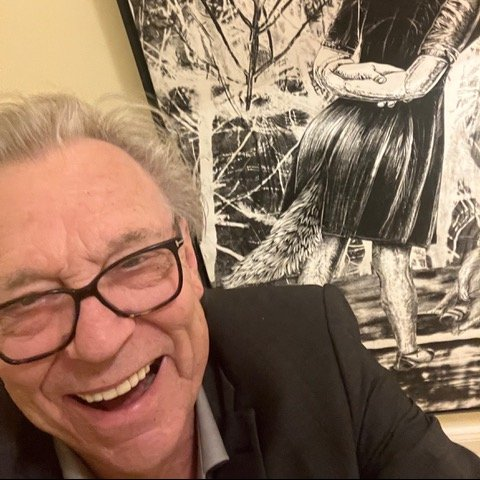
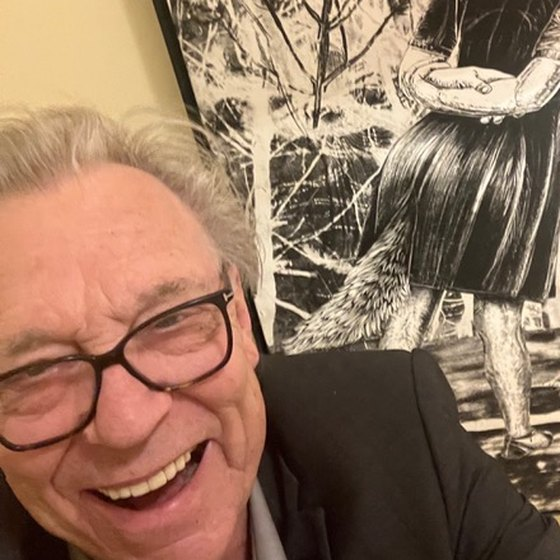
Add files via upload

diff --git a/style.css b/style.css
@@ -27,8 +27,8 @@ section{padding:3rem 0}
 .prog h3{color:var(--teal-d);display:flex;justify-content:space-between;border-bottom:2px solid var(--teal);padding-bottom:.3rem;margin-top:2.5rem}
 .slot{display:grid;grid-template-columns:9rem 1fr;gap:.2rem 1.5rem;margin:1rem 0}
 .slot b{color:var(--teal-d)}.slot p{margin:.2rem 0}
-.speakers{display:grid;grid-template-columns:repeat(auto-fill,minmax(180px,1fr));gap:1.5rem;list-style:none;padding:0}
-.speakers img,.speakers .ph{width:100%;aspect-ratio:1;object-fit:cover;border-radius:50% 50% 12px 12px;background:var(--yellow);display:grid;place-items:center;font:700 2.2rem var(--serif);color:var(--teal-d)}
+.speakers{display:grid;grid-template-columns:repeat(auto-fill,minmax(150px,1fr));gap:2rem 1.5rem;list-style:none;padding:0;text-align:center}
+.speakers img,.speakers .ph{width:min(100%,210px);aspect-ratio:1;object-fit:cover;border-radius:50%;background:var(--yellow);display:grid;place-items:center;margin:0 auto;font:700 2.2rem var(--serif);color:var(--teal-d);outline:4px solid var(--yellow);outline-offset:5px}
 .speakers strong{display:block;margin-top:.6rem;font-family:var(--serif)}.speakers span{font-size:.95rem}
 .videos{display:grid;grid-template-columns:repeat(auto-fit,minmax(300px,1fr));gap:1.5rem}
 .videos iframe{width:100%;aspect-ratio:16/9;border:0;border-radius:12px}
@@ -54,8 +54,8 @@ footer{background:var(--ink);color:#fff;padding:2rem 0;font-size:.95rem}footer a
 .hero .co{font-weight:600;margin:0 0 1rem}
 .partners{padding:2.5rem 0;background:#fff;border-top:2px solid var(--mist)}
 .partners .wrap{display:flex;align-items:center;justify-content:center;gap:2.5rem 3rem;flex-wrap:wrap}
-.partners img{height:92px;width:auto}
-.partners .lions-logo{height:84px}
+.partners img{height:124px;width:auto}
+.partners .lions-logo{height:108px}
 .partners p{margin:0;max-width:22ch;font-weight:600;line-height:1.4}
 .faq h2{margin-top:2.5rem;font-size:1.6rem;color:var(--teal-d)}
 .faq h2:first-child{margin-top:0}
@@ -63,4 +63,11 @@ footer{background:var(--ink);color:#fff;padding:2rem 0;font-size:.95rem}footer a
 .faq th,.faq td{text-align:left;padding:.35rem 1.5rem .35rem 0;border-bottom:1px solid #cfe3e5;vertical-align:top}
 .share{background:var(--mist)}
 @media(max-width:700px){.hero .face{display:none}.hero .txt{max-width:100%}.hero .lions{width:54px;top:-2rem}.partners .wrap{flex-direction:column;text-align:center}.partners p{max-width:none}}
-.partners .coop{display:flex;flex-direction:column;align-items:flex-start;gap:.35rem}.partners .coop span{font-size:.85rem;line-height:1.2}.partners img.fonds{height:80px;width:auto}@media(max-width:700px){.partners .coop{align-items:center}}
+.partners .coop{display:flex;flex-direction:column;align-items:flex-start;gap:.35rem}.partners .coop span{font-size:.85rem;line-height:1.2}.partners img.fonds{height:46px;width:auto}@media(max-width:700px){.partners .coop{align-items:center}}
+footer h2{font-size:1.1rem;color:var(--yellow);margin:0 0 .7rem}
+.foot{display:grid;grid-template-columns:1.2fr 1fr;gap:2rem 3rem}
+.foot ul{list-style:none;margin:0;padding:0}
+.foot li{padding-left:1.3rem;position:relative;margin:0 0 .6rem;text-wrap:balance}
+.foot li::before{content:"";position:absolute;left:0;top:.55em;width:.65rem;height:.65rem;border-radius:50%;background:var(--yellow)}
+.foot p{margin:0 0 .9rem}
+@media(max-width:700px){.foot{grid-template-columns:1fr}}

diff --git a/site.js b/site.js
@@ -2,7 +2,7 @@ const PAGES=[["index.html","Programma"],["sponsoren.html","Sponsoren"],["faq.htm
 const cur=location.pathname.split("/").pop()||"index.html";
 const esc=s=>String(s).replace(/[&<>"]/g,c=>({"&":"&amp;","<":"&lt;",">":"&gt;",'"':"&quot;"}[c]));
 document.querySelector("#hdr").outerHTML=`<header class="site-header"><div class="wrap"><a class="brand" href="index.html">Het fitte brein</a><nav aria-label="Hoofdmenu">${PAGES.map(([h,t])=>`<a href="${h}"${h===cur?' aria-current="page"':""}>${t}</a>`).join("")}<a class="btn" style="margin-left:1.2rem;padding:.4rem 1rem" href="${SITE.ticketUrl}">Tickets</a></nav></div></header>`;
-document.querySelector("#ftr").outerHTML=`<section class="partners"><div class="wrap"><img src="images/lionsclub-het-loo.jpg" alt="Lionsclub Apeldoorn Het Loo"><img class="lions-logo" src="images/lions-international.png" alt="Lions International"><div class="coop"><span>in samenwerking met</span><img class="fonds" src="images/bettine-vriesekoop-fonds.png" alt="Bettine Vriesekoop Fonds"></div></div></section><footer><div class="wrap"><p>Opbrengst voor onderzoek naar Parkinson door Bas Bloem en voor meer bewegen voor mensen met Parkinson (Bettine Vriesekoop Fonds).</p><p>Vragen? <a href="mailto:${SITE.infoMail}">${SITE.infoMail}</a><br>Sponsor worden? <a href="mailto:${SITE.sponsorMail}">${SITE.sponsorMail}</a> · ${esc(SITE.sponsorContact)} · ${SITE.sponsorTel}</p></div></footer>`;
+document.querySelector("#ftr").outerHTML=`<section class="partners"><div class="wrap"><img src="images/lionsclub-het-loo.jpg" alt="Lionsclub Apeldoorn Het Loo"><img class="lions-logo" src="images/lions-international.png" alt="Lions International"><div class="coop"><span>in samenwerking met</span><img class="fonds" src="images/bettine-vriesekoop-fonds.png" alt="Bettine Vriesekoop Fonds"></div></div></section><footer><div class="wrap foot"><div><h2>De opbrengst gaat naar</h2><ul><li>onderzoek naar Parkinson door Bas Bloem</li><li>meer bewegen voor mensen met Parkinson, via het Bettine Vriesekoop Fonds</li></ul></div><div><h2>Contact</h2><p>Vragen?<br><a href="mailto:${SITE.infoMail}">${SITE.infoMail}</a></p><p>Sponsor worden?<br><a href="mailto:${SITE.sponsorMail}">${SITE.sponsorMail}</a><br>${esc(SITE.sponsorContact)}<br>${SITE.sponsorTel}</p></div></div></footer>`;
 document.querySelectorAll("[data-ticket]").forEach(a=>a.href=SITE.ticketUrl);
 const $=s=>document.querySelector(s);
 if($("#speakers"))$("#speakers").innerHTML=SPEAKERS.map(p=>{const ini=p.naam.split(" ").map(w=>w[0]).slice(0,2).join("");return `<li>${p.foto?`<img src="images/${esc(p.foto)}" alt="${esc(p.naam)}" loading="lazy">`:`<div class="ph" aria-hidden="true">${ini}</div>`}<strong>${esc(p.naam)}</strong><span>${esc(p.rol)}</span></li>`}).join("");

diff --git a/data.js b/data.js
@@ -15,10 +15,10 @@ const SITE = {
 const SPEAKERS = [
   { naam: "Bas Bloem", rol: "Hoogleraar neurologie", foto: "bas-bloem.jpg" },
   { naam: "Erik Scherder", rol: "Hoogleraar neuropsychologie", foto: "erik-scherder.jpg" },
-  { naam: "Erik van Wensen", rol: "Neuroloog", foto: "" },
+  { naam: "Erik van Wensen", rol: "Neuroloog", foto: "erik-van-wensen.jpg" },
   { naam: "Jan Vayne", rol: "Pianist", foto: "jan-vayne.jpg" },
   { naam: "Jan Mulder", rol: "Columnist en oud-voetballer", foto: "jan-mulder.jpg" },
-  { naam: "Stephan Veen", rol: "Olympisch kampioen hockey", foto: "" },
+  { naam: "Stephan Veen", rol: "Olympisch kampioen hockey", foto: "stephan-veen.jpg" },
   { naam: "Arnold Vanderlyde", rol: "Olympisch brons boksen", foto: "arnold-vanderlyde.jpg" },
   { naam: "Bettine Vriesekoop", rol: "Tafeltennisicoon", foto: "bettine-vriesekoop.jpg" },
   { naam: "Hans Böhm", rol: "Schaakmeester, publicist en presentator", foto: "hans-bohm.jpg" },
